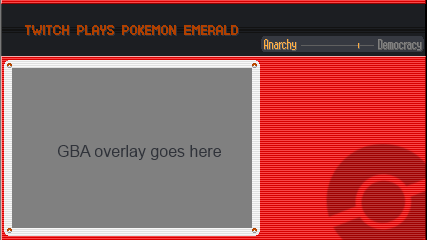
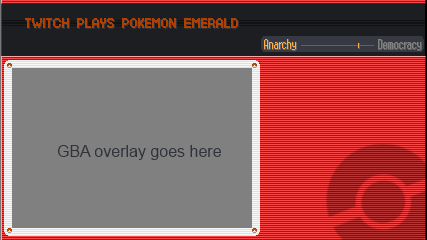
Made IRC listener reconnect, added toggle on keyoutputs and updated the graphics

Changed region(s): [[0.0609, 0.0583, 0.5785, 0.1458]]

diff --git a/twitch.py b/twitch.py
@@ -6,17 +6,32 @@ class TwitchListener(irc.IRCClient):
 	def __init__(self, nick, password):
 		self.nickname = nick
 		self.password = password
+		
+		self.listening = False
 	def connectionMade(self):
 		irc.IRCClient.connectionMade(self)
-		print "TwitchListener connected"
+		print "TwitchListener connected to Twitch IRC server"
 	def connectionLost(self, reason):
 		irc.IRCClient.connectionLost(self, reason)
-		print "TwitchListener disconnected"
+		print "TwitchListener disconnected from Twitch IRC"
+		self.listening = False
+		reactor.callLater(10,self.factory.Reconnect)
+	def JoinChannel(self):
+		if not self.listening:
+			reactor.callLater(5, self.JoinChannel)
+			self.join(self.factory.channel)
 	#====
 	def signedOn(self):
-		self.join(self.factory.channel)
+		print "TwitchListener successfully signed on to Twitch IRC"
+		self.JoinChannel()
 	def joined(self, channel):
 		print "TwitchListener joined", self.factory.channel
+		self.listening = True
+	def kickedFrom(self, channel, kicker, message):
+		print "TwitchListener kicked from", channel
+		if channel == self.factory.channel:
+			self.listening = False
+			self.JoinChannel()
 	def privmsg(self, user, channel, msg):
 		user = user.split('!', 1)[0]
 		self.factory.SendTo(user, msg)
@@ -43,7 +58,14 @@ class TwitchListenerFactory(protocol.ClientFactory):
 		connector.connect()
 	def clientConnectionFailed(self, connector, reason):
 		print "connection failed:", reason
+		reactor.callLater(10,self.Reconnect)
+	def Reconnect(self):
+		print "Reconnecting to Twitch IRC server..."
+		reactor.connectTCP(self.host, self.port, self)
 
 #sets up the connection to the twisted reactor:
 def Connect(host, port, channel, username, Oauth, SendTo):
-	reactor.connectTCP(host, port, TwitchListenerFactory(channel, username, Oauth, SendTo))
+	f = TwitchListenerFactory(channel, username, Oauth, SendTo)
+	f.host = host
+	f.port = port
+	reactor.connectTCP(host, port, f)

diff --git a/game.py b/game.py
@@ -9,6 +9,7 @@ class Game:
 		self.Main = Main
 		self.eTitle = eTitle
 		self.wsh = win32com.client.Dispatch("WScript.Shell")
+		self.on = True
 		
 		self.commands = {}#self.commands[chat input] = "button to press"
 		
@@ -23,21 +24,26 @@ class Game:
 		f.close()
 		self.activate()
 	def activate(self):#to keep the window focused
-		self.wsh.AppActivate(self.eTitle)
+		if self.on: 
+			self.wsh.AppActivate(self.eTitle)
 		reactor.callLater(5, self.activate)
 	def save(self):#called by Settings in main.py
-		#self.wsh.AppActivate(self.eTitle)
-		win32api.keybd_event(0x10, 0, 0, 0)#shift
-		win32api.keybd_event(0x70, 0, 0, 0)#F1
-		time.sleep(0.08)#or else it won't work on shutdown
-		#self.wsh.AppActivate(self.eTitle)
-		win32api.keybd_event(0x10, 0, win32con.KEYEVENTF_KEYUP, 0)#shift release
-		win32api.keybd_event(0x70, 0, win32con.KEYEVENTF_KEYUP, 0)#F1 release
+		if self.on:
+			#self.wsh.AppActivate(self.eTitle)
+			win32api.keybd_event(0x10, 0, 0, 0)#shift
+			win32api.keybd_event(0x70, 0, 0, 0)#F1
+			time.sleep(0.08)#or else it won't work on shutdown
+			#self.wsh.AppActivate(self.eTitle)
+			win32api.keybd_event(0x10, 0, win32con.KEYEVENTF_KEYUP, 0)#shift release
+			win32api.keybd_event(0x70, 0, win32con.KEYEVENTF_KEYUP, 0)#F1 release
 	def Command(self, cmd):
-		#self.wsh.AppActivate(self.eTitle)
-		win32api.keybd_event(self.commands[cmd], 0, 0, 0)
-		reactor.callLater(0.08, self._release, self.commands[cmd])
+		if self.on:
+			#self.wsh.AppActivate(self.eTitle)
+			win32api.keybd_event(self.commands[cmd], 0, 0, 0)
+			reactor.callLater(0.08, self._release, self.commands[cmd])
 	def _release(self, VK):
 		#self.wsh.AppActivate(self.eTitle)
 		win32api.keybd_event(VK, 0, win32con.KEYEVENTF_KEYUP, 0)
-		
+	def ToggleActivity(self):
+		self.on = not self.on
+		print "Keypressing turned", "on!" if self.on else "off!"

diff --git a/display.py b/display.py
@@ -1,10 +1,11 @@
 import pygame, sys, time
-from pygame.locals import *#do i need this?
+from pygame.locals import K_ESCAPE, KEYDOWN, QUIT
 from twisted.internet import reactor
 
 #set by Setup():
 Main = None#the class in main.py
 Settings = None#the class in main.py
+Game = None#the class in game.py
 
 #GameGlobals:
 print "Initalizing pygame..."
@@ -74,6 +75,9 @@ def MainLoop():#like the mainloop, but an event triggered by twisted instead
 	for i in Events:
 		if i.type == QUIT:
 			reactor.stop()
+		if i.type == KEYDOWN:
+			if i.key == K_ESCAPE:
+				Game.ToggleActivity()
 	
 	#figure wether to update the frame or not:
 	timestamp, UTC = MakeTime()
@@ -86,7 +90,7 @@ def MainLoop():#like the mainloop, but an event triggered by twisted instead
 		#blit time:
 		text = Text.CreateShadowed("%s   %s" % (timestamp, UTC), Settings.cTime1, Settings.cTime2)
 		w = text.get_width() - 1
-		Output.blit(text, (132-w/2, 38))
+		Output.blit(text, (132-w/2, 37))
 		
 		#blit inputs:
 		for i, (user, cmd) in enumerate(Main.inputs[-15 + (7*Settings.Mode):][::-1]):
@@ -117,10 +121,11 @@ def MainLoop():#like the mainloop, but an event triggered by twisted instead
 		pygame.transform.scale(Output, Settings.size, Window)
 		pygame.display.flip()
 
-def Setup(main, settings):
-	global Main, Settings, Commands, Text, Window
+def Setup(main, settings, game):
+	global Main, Settings, Game, Commands, Text, Window
 	Main = main
 	Settings = settings
+	Game = game
 	Text = Text()
 	
 	Window = pygame.display.set_mode(Settings.size)

diff --git a/main.py b/main.py
@@ -115,7 +115,7 @@ Game = game.Game(Main, Settings.eTitle)
 Main.Commands = Game.commands.keys()#now is later
 twitch.Connect(Settings.host, Settings.port, Settings.channel, Settings.username, Settings.Oauth, Main.MSGRecieved)
 
-display.Setup(Main, Settings)
+display.Setup(Main, Settings, Game)
 
 reactor.run()
 

diff --git a/readme.md b/readme.md
@@ -15,6 +15,7 @@ How to use:
 - Set the preferences you need in data.ini
 - run run.bat
 - Set up your preffered streaming program, and make VBA overlay "Twitch Plays GBA" at x36, y=204, w=720, h=480
+- You can toggle on or off the button output from "Twitch Plays GBA" by pressing ESCAPE
 - Stream
 
 Streaming:
